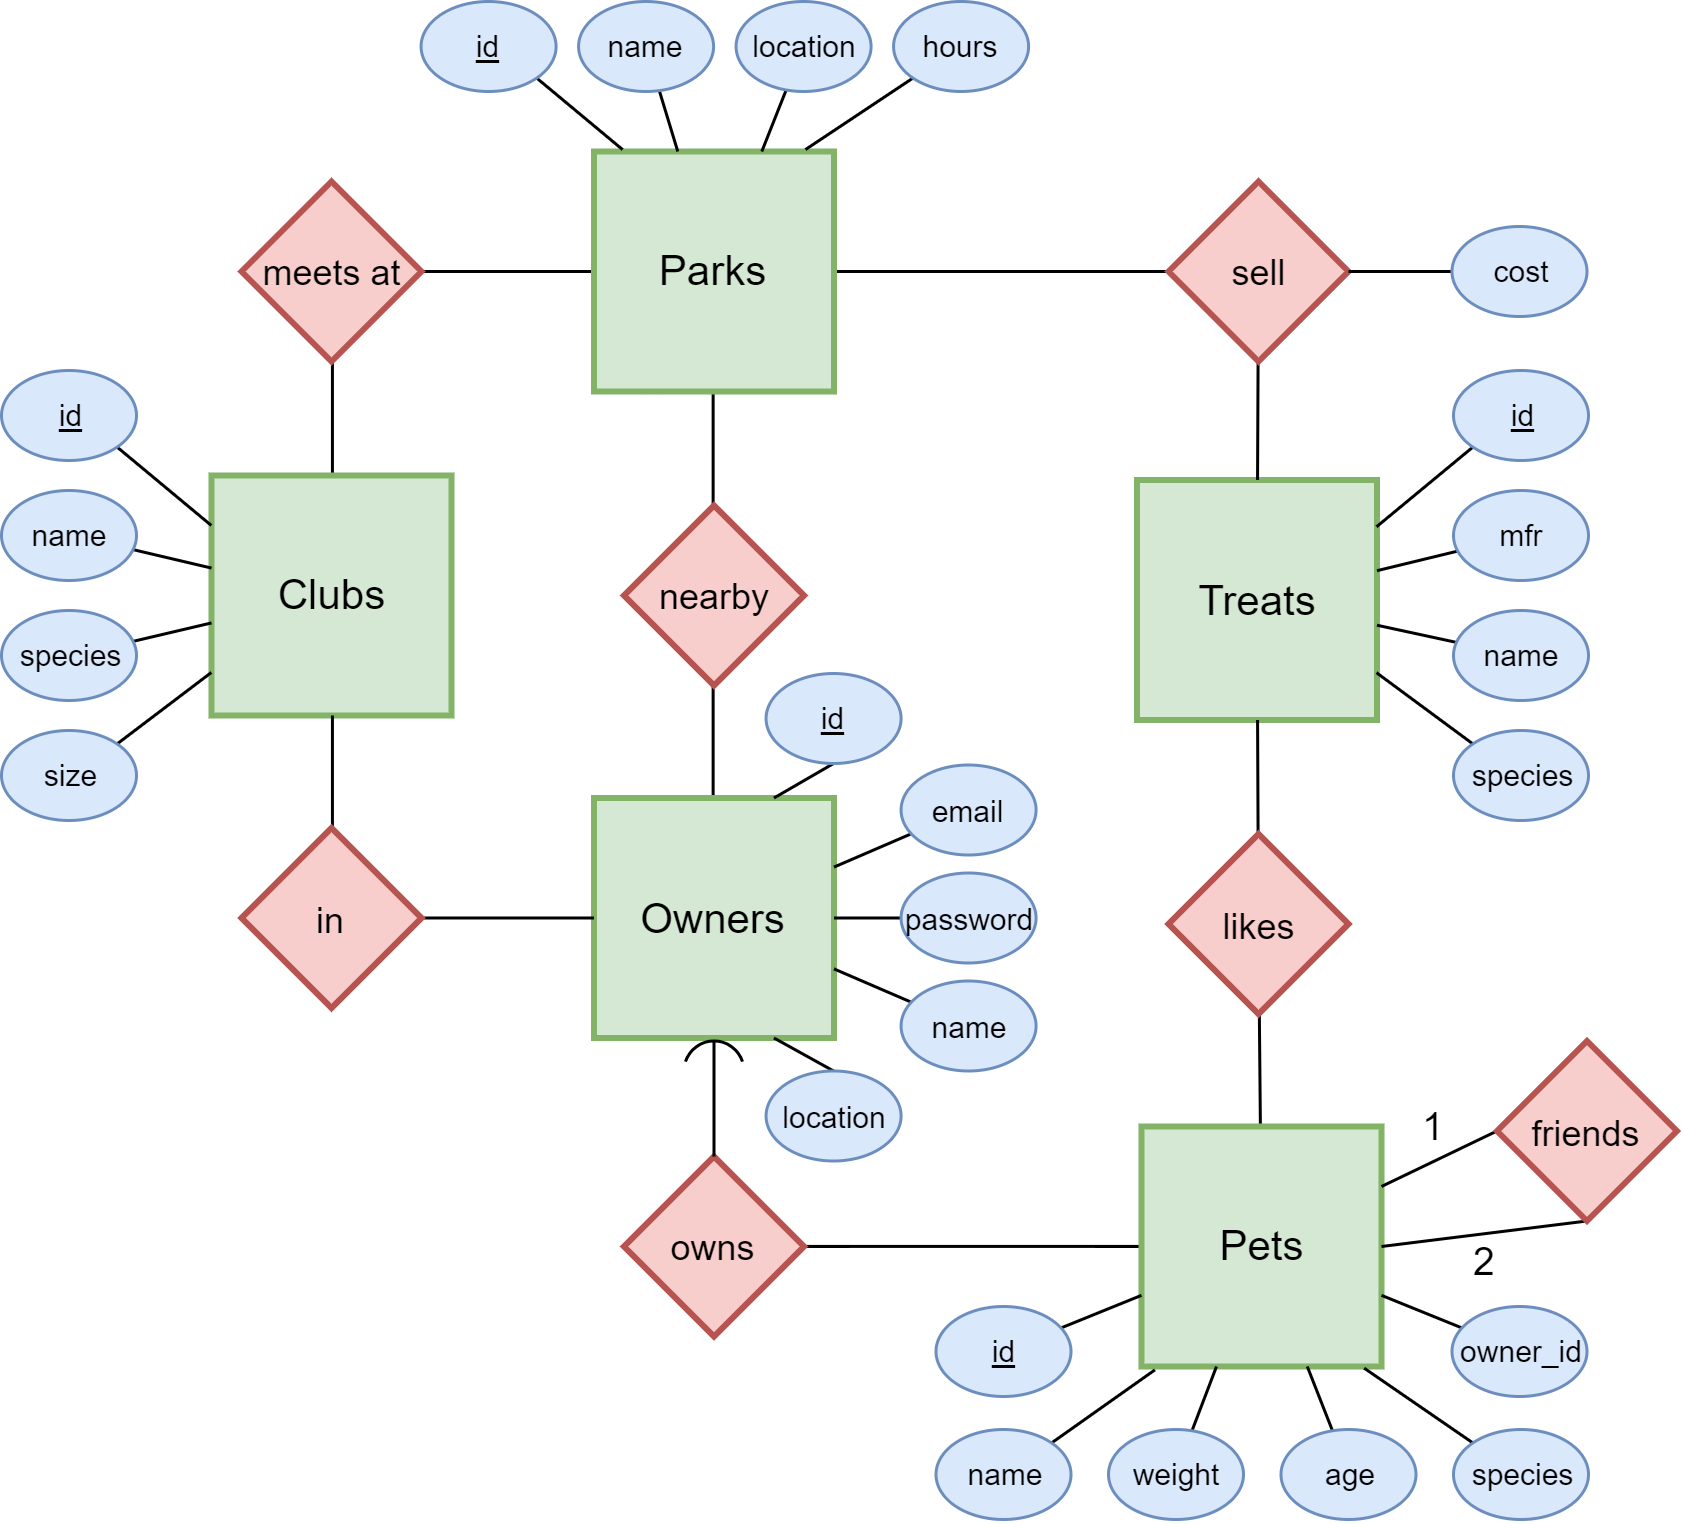
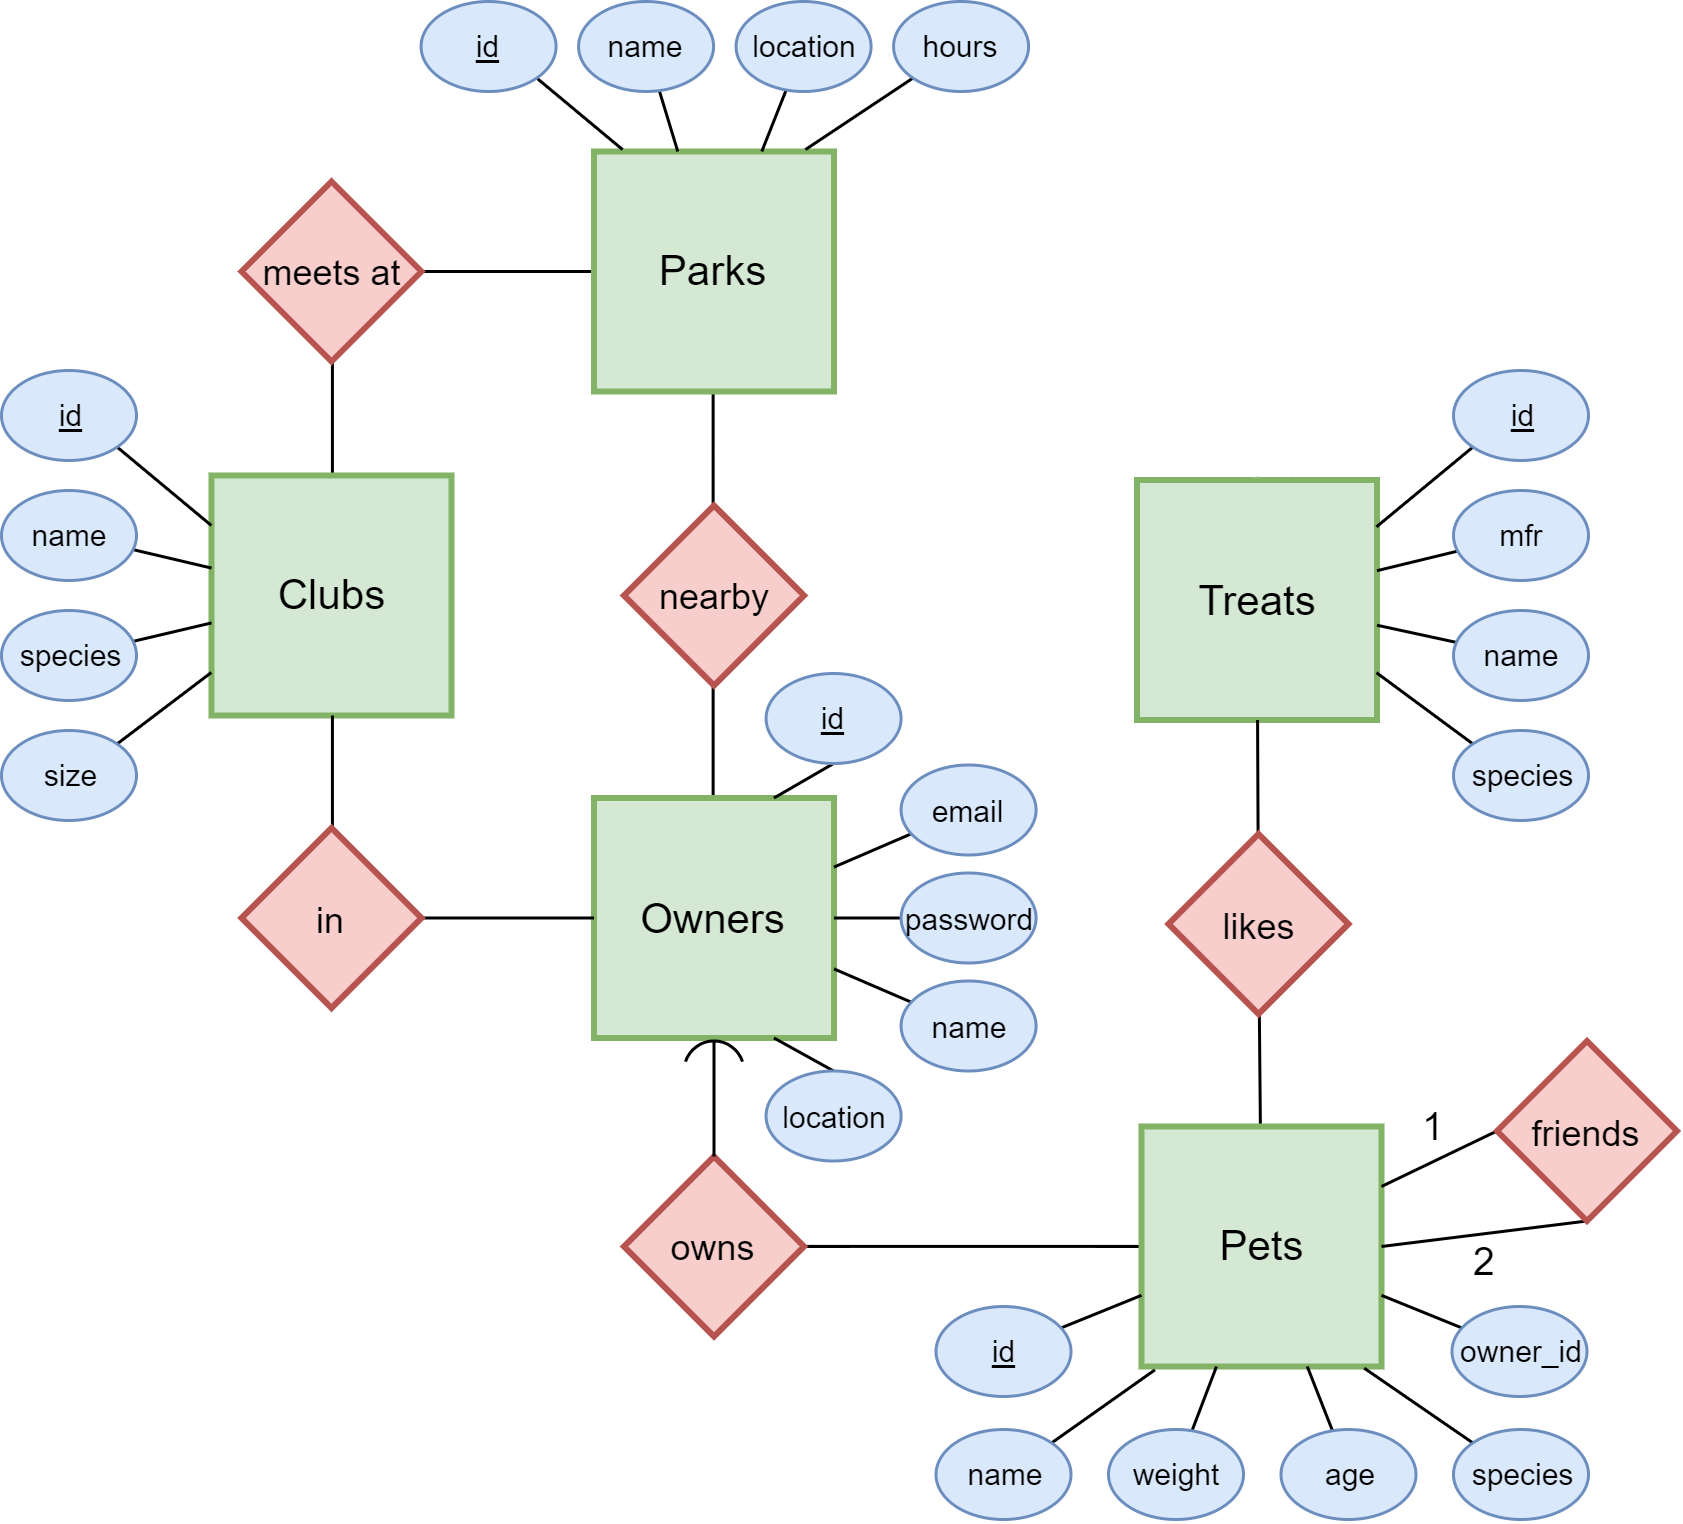
Removed park to treat relations
We are not using this relation going forward, so this commit stands to remove mentions of the relation in documentation.

Changed region(s): [[0.6797, 0.1234, 0.8033, 0.2467], [0.8342, 0.1234, 0.9578, 0.2159]]

diff --git a/README.md b/README.md
@@ -73,9 +73,6 @@ Clubs can set up meetings at certain parks, which will be stored in our database
 ### Likes (Pet-to-Treat) 
 To help match pets with new friends and to suggest parks to owners, the database will store which treats have been defined by their owner as something that a given pet likes.
 
-### Sells (Park-to-Treat)
-Parks can have vending machines or be near stores that sell treats. This can be added by owners who notice a treat being sold, and will be added to this relationship to be shown to other users.
-
 
 ## Relational Schemas
 * __bold__ = primary key
@@ -100,7 +97,6 @@ club_park(__id__, club_id, park_id)
 
 pet_treat(__id__, pet_id, treat_id)
 
-park_treat(__id__, park_id, treat_id)
 
 ## Database Pictures
 
@@ -139,10 +135,6 @@ Club_Parks
 Owner_Park
 
 ![alt-text](./db_assets/owner_parks.PNG)
-
-Treat_Park
-
-![alt-text](./db_assets/park_treats.PNG)
 
 Pet_Treat
 

diff --git a/PetbookMySQL/mysql_commands.md b/PetbookMySQL/mysql_commands.md
@@ -88,16 +88,6 @@ CREATE TABLE club_park(
     FOREIGN KEY (park_id) REFERENCES parks(id) ON DELETE CASCADE
 );
 
-CREATE TABLE park_treat(
-	id INT NOT NULL AUTO_INCREMENT,
-    park_id INT NOT NULL,
-	treat_id INT NOT NULL,
-	cost DECIMAL(5,2),
-	PRIMARY KEY (id),
-    FOREIGN KEY (park_id) REFERENCES parks(id) ON DELETE CASCADE,
-    FOREIGN KEY (treat_id) REFERENCES treats(id) ON DELETE CASCADE
-);
-
 CREATE TABLE pet_treat(
 	id INT NOT NULL AUTO_INCREMENT,
     pet_id INT NOT NULL,
